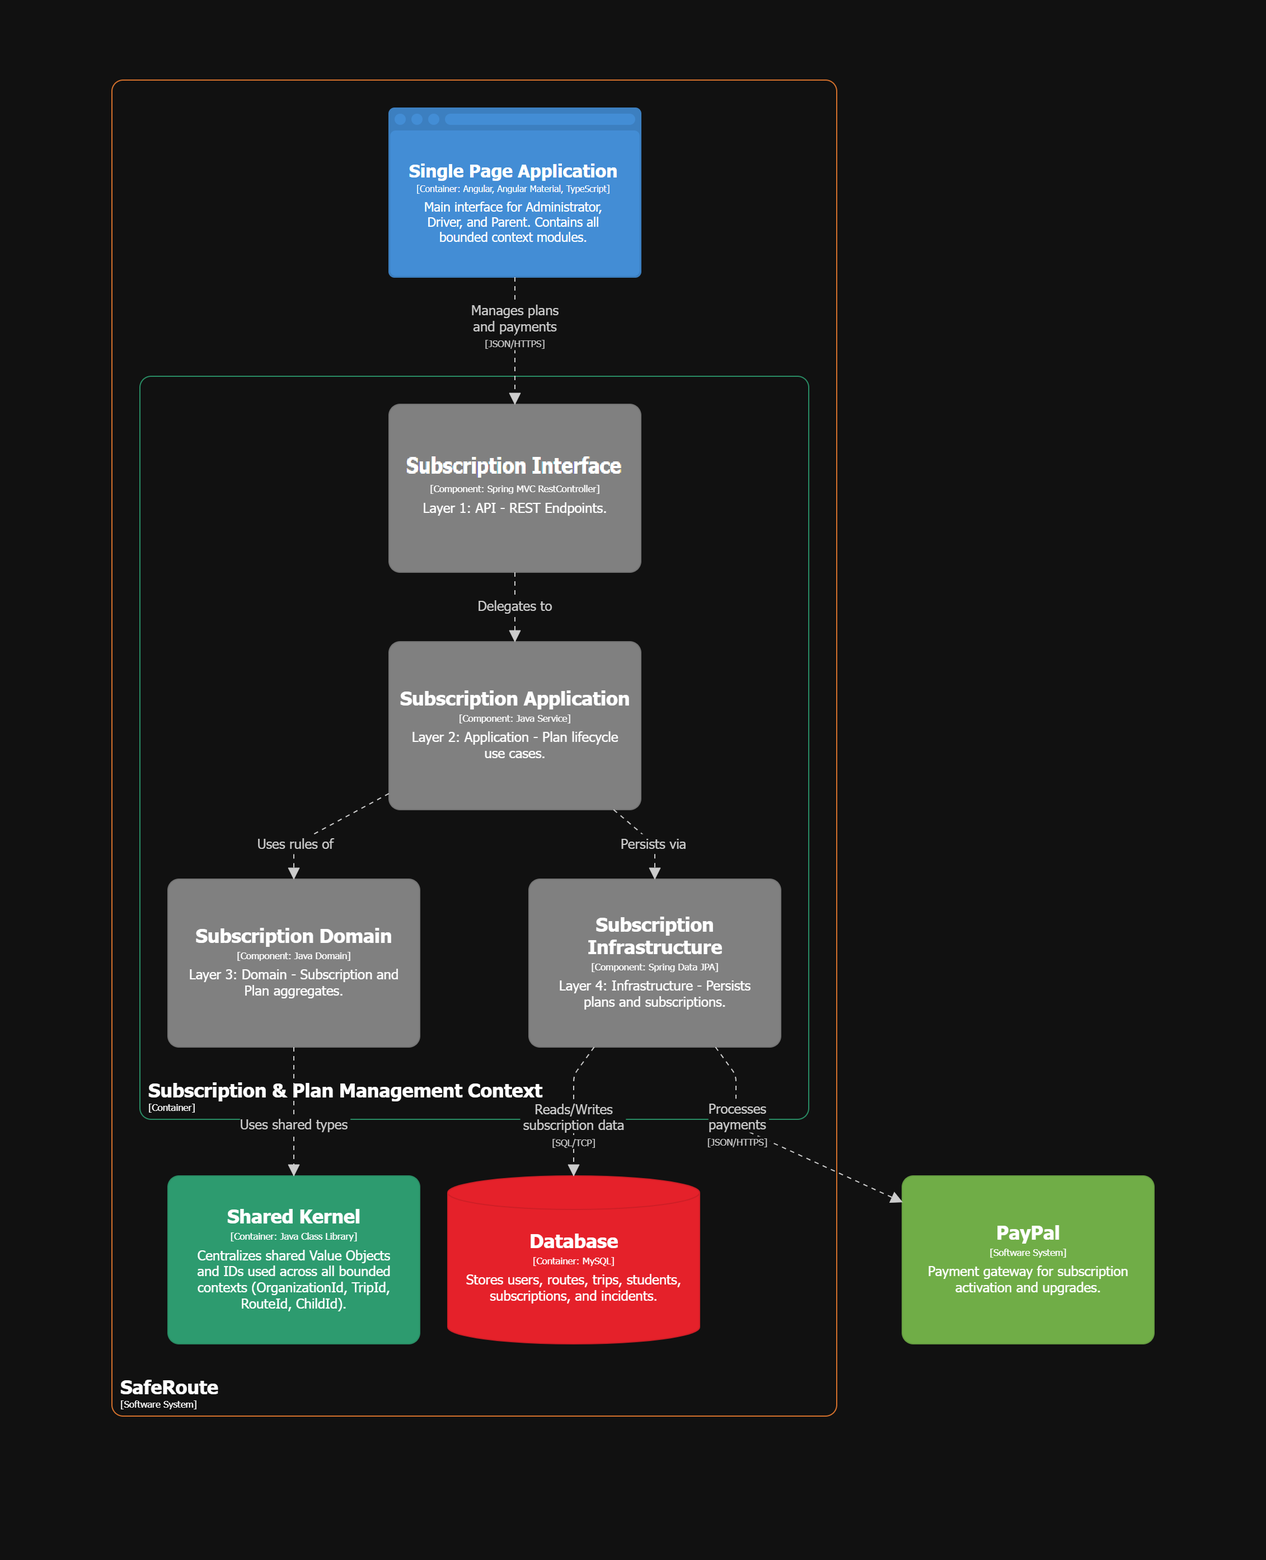
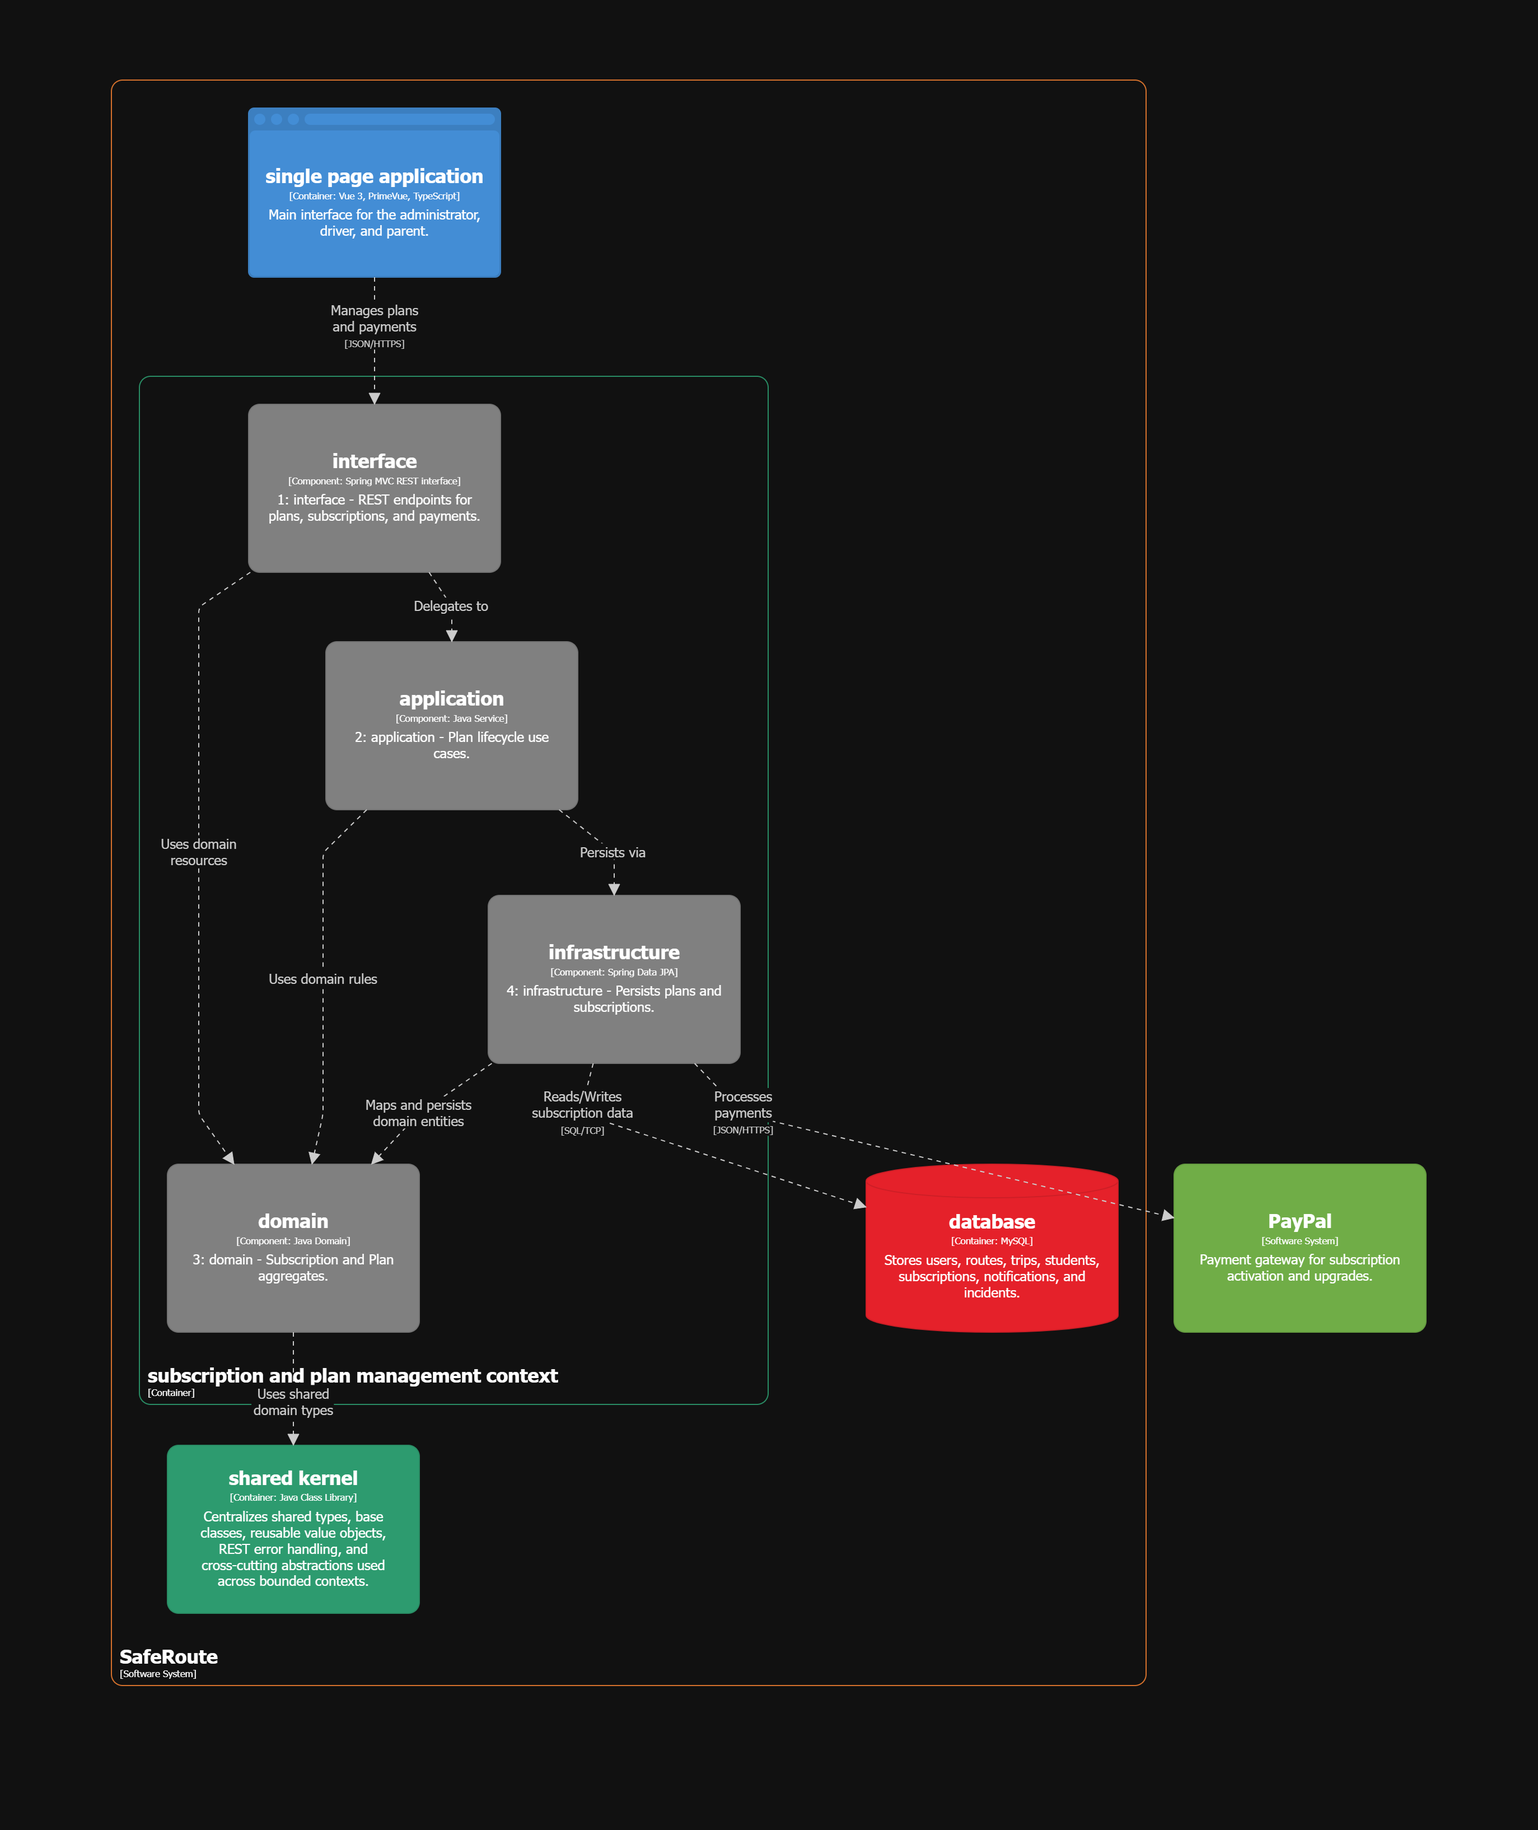
fix: update links and diagramas

Changed region(s): [[0.0619, 0.0312, 0.9284, 0.9368], [0.1238, 0.4372, 0.1547, 0.4684]]

diff --git a/README.md b/README.md
@@ -2755,7 +2755,7 @@ Aquí se detallan las unidades de despliegue principales del sistema. El diagram
 - Single Page
 
 ![WebServices](./assets/images/ChapterIV/C4/ComponentDiagram_SPA-dark.png)
-La SPA está desarrollada con Angular, Angular Material y TypeScript, organizada en módulos por bounded context. Cada módulo sigue una estructura interna de cuatro capas: Model (DTOs del dominio), Assembler (transforma respuestas del API), API Service (consume el backend vía HttpClient), y Store (estado reactivo con Angular Signals). La navegación entre módulos es gestionada por la Navigation Bar del módulo Shared, mientras que el HTTP Service centraliza todas las llamadas REST y el Map Service gestiona la integración con Leaflet.
+La SPA está desarrollada con Angular, Angular Material y TypeScript, organizada en módulos por bounded context. Cada módulo sigue una estructura interna de cuatro capas: Model (resources del dominio), Assembler (transforma respuestas del API), API Service (consume el backend vía HttpClient), y Store (estado reactivo con Angular Signals). La navegación entre módulos es gestionada por la Navigation Bar del módulo Shared, mientras que el HTTP Service centraliza todas las llamadas REST y el Map Service gestiona la integración con Leaflet.
 
 - Trip Execution & Monitoring:
   Ilustra el núcleo operativo del frontend en sus 4 capas. Muestra cómo la Trip View procesa la ejecución del viaje en tiempo real, el Signal Store mantiene el estado de abordajes e incidentes activos, y el Trip Service registra cada evento hacia el Web Service, que a su vez dispara las notificaciones correspondientes.
@@ -2789,7 +2789,7 @@ La SPA está desarrollada con Angular, Angular Material y TypeScript, organizada
   ![WebServices](<./assets/images/ChapterIV/C4/ComponentPresentation/ComponentDiagram_Notification-dark%20(1).png>)
 
 - Shared Kernel:
-  Detalla las 4 capas transversales del frontend que fundamentan todos los bounded context modules. Expone el Navigation Bar en la capa de presentación, el HTTP Service centralizado con interceptores JWT en la capa de aplicación, los DTOs e interfaces base en dominio, y el Map Service que integra Leaflet y OpenRouteService en la capa de infraestructura.
+  Detalla las 4 capas transversales del frontend que fundamentan todos los bounded context modules. Expone el Navigation Bar en la capa de presentación, el HTTP Service centralizado con interceptores JWT en la capa de aplicación, los resources e interfaces base en dominio, y el Map Service que integra Leaflet y OpenRouteService en la capa de infraestructura.
   ![WebServices](./assets/images/ChapterIV/C4/ComponentDiagram_Shared-dark.png)
 
   Presentation shared:
@@ -2817,9 +2817,11 @@ La SPA está desarrollada con Angular, Angular Material y TypeScript, organizada
   ![WebServices](./assets/images/ChapterIV/C4/WebServiceComponents-dark.png)
   Este diagrama ofrece la visión macro del backend. Demuestra cómo el monolito de Spring Boot está organizado lógicamente en seis Bounded Contexts independientes y un Shared Kernel (núcleo compartido de Value Objects), asegurando una separación clara de responsabilidades a nivel de dominio.
 
+
 - Trip Execution & Monitoring:
   Ilustra el núcleo operativo del sistema en sus 4 capas. Muestra cómo se procesa la lógica en tiempo real durante la ejecución del viaje, gestionando el registro de abordajes por estudiante, el log de incidentes y la emisión de eventos de dominio internos que activan el contexto de Notificaciones.
   ![WebServices](./assets/images/ChapterIV/C4/ComponentDiagram_Trip-dark.png)
+
 
 - Route Planning & Execution:
   Detalla la arquitectura modular (Controller, Service, Domain, Repository) encargada de la logística previa al viaje. Maneja la definición de paraderos con coordenadas GPS de alta precisión, la asignación de vehículos y conductores, y la configuración de horarios y días de servicio por ruta.
@@ -2834,8 +2836,9 @@ La SPA está desarrollada con Angular, Angular Material y TypeScript, organizada
   ![WebServices](./assets/images/ChapterIV/C4/ComponentDiagram_Notification-dark.png)
 
 - Shared Kernel:
-  Este diagrama expone las 4 capas transversales (Building Blocks) que fundamentan la arquitectura limpia del monolito. Detalla cómo se proveen clases base y utilidades compartidas: Middlewares en la capa API, interfaces y DTOs base en Application, Value Objects globales (TripId, StudentId) en Domain, y repositorios genéricos en Infrastructure, evitando la duplicidad de código en el resto de los Bounded Contexts.
-  ![WebServices](./assets/images/ChapterIV/C4/ComponentDiagram_SharedKernel-dark.png)
+  Este diagrama expone las 4 capas transversales (Building Blocks) que fundamentan la arquitectura limpia del monolito. Detalla cómo se proveen clases base y utilidades compartidas: Middlewares en la capa API, interfaces y resources base en Application, Value Objects globales (TripId, StudentId) en Domain, y repositorios genéricos en Infrastructure, evitando la duplicidad de código en el resto de los Bounded Contexts.
+  ![WebServices](./assets/images/ChapterIV/C4/ComponentDiagram_Shared-dark%20(1).png)
+  
   - Identity & Access Management:
     Desglosa el módulo de identidad en su arquitectura interna de 4 capas (API, Application, Domain, Infrastructure). Ilustra cómo se maneja la autenticación de usuarios, la provisión de cuentas y la asignación de roles de forma aislada, con Spring Security gestionando la emisión de tokens JWT en la capa de infraestructura.
     ![WebServices](./assets/images/ChapterIV/C4/ComponentDiagram_IAM-dark.png)
@@ -2845,67 +2848,6 @@ La SPA está desarrollada con Angular, Angular Material y TypeScript, organizada
   ![WebServices](./assets/images/ChapterIV/C4/ComponentDiagram_Subscription-dark.png)
 
 #### 4.7.1. Class Diagrams
-
-**BackEnd**
-
-- Identity and Access Management:
-
-![saferoute-iam](https://www.plantuml.com/plantuml/proxy?src=https://raw.githubusercontent.com/upc-pre-202610-1asi0729-11896-fivetech/saferoute-platform/refs/heads/main/saferoute-platform/docs/java-saferoute-iam-ddd.puml)
-
-Gestiona organizaciones, usuarios y roles en el entorno de la aplicación.
-Organization (AggregateRoot): Maneja el ciclo de vida de la institución (métodos create(), suspend(), activate()). Se relaciona mediante Value Objects para su identificador, nombre y estado.
-User (AggregateRoot): Gestiona la autenticación y la asignación de roles de los usuarios (métodos register(), authenticate(), changeRole()). Pertenece a una organización a través del OrganizationId compartido y utiliza Value Objects de seguridad como PasswordHash.
-Role (Entity): Define los niveles de acceso dentro del sistema usando el Value Object
-
-- Subscription & Plan Management:
-
-![saferoute-subscription](https://www.plantuml.com/plantuml/proxy?src=https://raw.githubusercontent.com/upc-pre-202610-1asi0729-11896-fivetech/saferoute-platform/refs/heads/main/saferoute-platform/docs/java-saferoute-subscription-ddd.puml)
-
-Controla el modelo de negocio, definiendo los planes y suscripciones de cada organización.
-Subscription (AggregateRoot): Controla el estado y la vigencia de una suscripción (métodos activate(), upgrade(), cancel()). Se vincula directamente a una organización y a un plan específico mediante sus identificadores.
-Plan (AggregateRoot): Establece los límites operativos y económicos mediante los Value Objects RouteQuota y DriverQuota, los cuales validan que no se exceda la capacidad contratada de rutas y conductores.
-
-- Stakeholder & Asset Management:
-
-![saferoute-stakeholder](https://www.plantuml.com/plantuml/proxy?src=https://raw.githubusercontent.com/upc-pre-202610-1asi0729-11896-fivetech/saferoute-platform/refs/heads/main/saferoute-platform/docs/java-saferoute-stakeholder-ddd.puml)
-
-Modela a los actores humanos y sus agrupaciones dentro del sistema.
-Parent (AggregateRoot): Representa a los apoderados e incluye una lista de entidades Child, gestionando la adición o remoción de hijos.
-Driver (Entity): Define a los conductores, agregando atributos específicos de su labor como el Value Object LicenseNumber.
-Child (Entity): Representa a los estudiantes, gestionando su estado de inscripción mediante el Value Object ChildEnrollmentState.
-StudentGroup (Entity): Permite agrupar referencias a múltiples niños (ChildId) para facilitar su asignación.
-
-- Fleet & Route Planning:
-
-![saferoute-fleet](https://www.plantuml.com/plantuml/proxy?src=https://raw.githubusercontent.com/upc-pre-202610-1asi0729-11896-fivetech/saferoute-platform/refs/heads/main/saferoute-platform/docs/java-saferoute-fleet-ddd.puml)
-
-Encargado de la planificación logística y operativa del transporte.
-Route (AggregateRoot): Define el recorrido y su programación utilizando Value Objects como DepartureTime y ServiceDays. Compone una secuencia de paradas (Stop) y se asocia a un vehículo y a una asignación específica.
-Stop, Vehicle y Assignment (Entities): Stop maneja las coordenadas exactas y el orden de recojo. Vehicle controla la capacidad y disponibilidad de la unidad. Assignment vincula operativamente a un conductor con un grupo específico de niños para esa ruta.
-
-- Trip Execution & Monitoring:
-
-![saferoute-trip](https://www.plantuml.com/plantuml/proxy?src=https://raw.githubusercontent.com/upc-pre-202610-1asi0729-11896-fivetech/saferoute-platform/refs/heads/main/saferoute-platform/docs/java-saferoute-trip-ddd.puml)
-
-Trip (AggregateRoot): Controla el ciclo de vida del recorrido (métodos start(), complete()) vinculando una ruta, un conductor y una organización.
-Attendance (Entity): Registra individualmente si un niño abordó o no, utilizando el Value Object BoardingState (boarded, missing, omitted).
-Incident (Entity): Permite reportar cualquier problema durante el viaje, encapsulando los detalles en el Value Object IncidentDescription.
-
-- Notifications & Communication:
-
-![saferoute-notifications](https://www.plantuml.com/plantuml/proxy?src=https://raw.githubusercontent.com/upc-pre-202610-1asi0729-11896-fivetech/saferoute-platform/refs/heads/main/saferoute-platform/docs/java-saferoute-notifications-ddd.puml)
-
-Centraliza el envío de información y alertas hacia los padres de familia.
-Notification (AggregateRoot): Organiza el envío de mensajes, gestionando la categoría y el estado de entrega (NotificationDeliveryState) hacia un apoderado en el contexto de un viaje específico.
-Alert y Announcement (Entities): Alert se enfoca en notificaciones inmediatas o de pánico basadas en el tiempo de disparo (triggeredAt). Announcement maneja comunicados generales asociados a una ruta específica.
-
-- Shared:
-
-![saferoute-shared](https://www.plantuml.com/plantuml/proxy?src=https://raw.githubusercontent.com/upc-pre-202610-1asi0729-11896-fivetech/saferoute-platform/refs/heads/main/saferoute-platform/docs/java-saferoute-shared-ddd.puml)
-
-Actúa como el Shared Kernel transversal de toda la solución en Spring Boot.
-
-Contiene exclusivamente Value Objects inmutables que sirven como identificadores globales (ej. OrganizationId, RouteId, ChildId) y conceptos comunes como FullName y Coordinates. Esto asegura la consistencia de los tipos de datos en la comunicación entre los distintos Bounded Contexts.
 
 **FrontEnd**
 
@@ -2976,6 +2918,96 @@ Centraliza la visualización y envío de notificaciones y alertas.
 Presentation & Domain: App compone NotificationList (para filtrar y marcar notificaciones como leídas), AlertPanel (gestiona alertas activas y pánico) y AnnouncementForm (creación de comunicados). Las vistas dependen exclusivamente de los modelos de dominio (Notification, Alert, Announcement) para renderizar los mensajes y alertas operativas a los usuarios finales.
 
 Application & Infrastructure: NotificationsStore maneja el estado de notificaciones, alertas y anuncios. NotificationsApi realiza las peticiones (ej. dispatchNotification(), triggerAlert()) y los Assemblers transforman los recursos recibidos en modelos limpios del dominio.
+
+**BackEnd**
+
+- Identity and Access Management (IAM):
+
+Gestiona organizaciones, usuarios y roles en el entorno de la aplicación.
+
+* Organization Aggregate
+Maneja el ciclo de vida de la institución (métodos create(), suspend(), activate()). Se relaciona mediante Value Objects para su identificador, nombre y estado.
+![saferoute-iam-organization](https://www.plantuml.com/plantuml/proxy?src=https://raw.githubusercontent.com/upc-pre-202610-1asi0729-11896-fivetech/saferoute-platform/refs/heads/develop/saferoute-platform/docs/java-saferoute-iam-organization-ddd.puml)
+
+* User Aggregate
+Gestiona la autenticación y la asignación de roles de los usuarios (métodos register(), authenticate(), changeRole()). Pertenece a una organización a través del OrganizationId compartido y utiliza Value Objects de seguridad como PasswordHash.
+![saferoute-iam-user](https://www.plantuml.com/plantuml/proxy?src=https://raw.githubusercontent.com/upc-pre-202610-1asi0729-11896-fivetech/saferoute-platform/refs/heads/develop/saferoute-platform/docs/java-saferoute-iam-user-ddd.puml)
+
+- Subscription & Plan Management:
+
+Controla el modelo de negocio, definiendo los planes y suscripciones de cada organización.
+
+* Plan Aggregate
+Establece los límites operativos y económicos mediante los Value Objects RouteQuota y DriverQuota, los cuales validan que no se exceda la capacidad contratada de rutas y conductores.
+![saferoute-subscription-plan](https://www.plantuml.com/plantuml/proxy?src=https://raw.githubusercontent.com/upc-pre-202610-1asi0729-11896-fivetech/saferoute-platform/refs/heads/develop/saferoute-platform/docs/java-saferoute-subscription-plan-ddd.puml)
+
+* Subscription Aggregate
+Controla el estado y la vigencia de una suscripción (métodos activate(), upgrade(), cancel()). Se vincula directamente a una organización y a un plan específico mediante sus identificadores.
+![saferoute-subscription-subscription](https://www.plantuml.com/plantuml/proxy?src=https://raw.githubusercontent.com/upc-pre-202610-1asi0729-11896-fivetech/saferoute-platform/refs/heads/develop/saferoute-platform/docs/java-saferoute-subscription-subscription-ddd.puml)
+
+* Payment Aggregate
+Gestiona los pagos realizados para las suscripciones.
+![saferoute-subscription-payment](https://www.plantuml.com/plantuml/proxy?src=https://raw.githubusercontent.com/upc-pre-202610-1asi0729-11896-fivetech/saferoute-platform/refs/heads/develop/saferoute-platform/docs/java-saferoute-subscription-payment-ddd.puml)
+
+- Stakeholder & Asset Management:
+
+Modela a los actores humanos y sus agrupaciones dentro del sistema.
+
+* Parent Aggregate
+Representa a los apoderados e incluye a los estudiantes a su cargo, gestionando la adición o remoción de hijos.
+![saferoute-stakeholder-parent](https://www.plantuml.com/plantuml/proxy?src=https://raw.githubusercontent.com/upc-pre-202610-1asi0729-11896-fivetech/saferoute-platform/refs/heads/develop/saferoute-platform/docs/java-saferoute-stakeholder-parent-ddd.puml)
+
+* Driver Aggregate
+Define a los conductores y atributos de su labor como la licencia.
+![saferoute-stakeholder-driver](https://www.plantuml.com/plantuml/proxy?src=https://raw.githubusercontent.com/upc-pre-202610-1asi0729-11896-fivetech/saferoute-platform/refs/heads/develop/saferoute-platform/docs/java-saferoute-stakeholder-driver-ddd.puml)
+
+* StudentGroup Aggregate
+Permite agrupar referencias a múltiples niños para facilitar su asignación.
+![saferoute-stakeholder-studentgroup](https://www.plantuml.com/plantuml/proxy?src=https://raw.githubusercontent.com/upc-pre-202610-1asi0729-11896-fivetech/saferoute-platform/refs/heads/develop/saferoute-platform/docs/java-saferoute-stakeholder-studentgroup-ddd.puml)
+
+- Fleet & Route Planning:
+
+Encargado de la planificación logística y operativa del transporte.
+
+* Route Aggregate
+Define el recorrido y su programación utilizando Value Objects como DepartureTime y ServiceDays. Compone una secuencia de paradas (Stop).
+![saferoute-fleet-route](https://www.plantuml.com/plantuml/proxy?src=https://raw.githubusercontent.com/upc-pre-202610-1asi0729-11896-fivetech/saferoute-platform/refs/heads/develop/saferoute-platform/docs/java-saferoute-fleet-route-ddd.puml)
+
+* Vehicle Aggregate
+Controla la capacidad y disponibilidad de la unidad.
+![saferoute-fleet-vehicle](https://www.plantuml.com/plantuml/proxy?src=https://raw.githubusercontent.com/upc-pre-202610-1asi0729-11896-fivetech/saferoute-platform/refs/heads/develop/saferoute-platform/docs/java-saferoute-fleet-vehicle-ddd.puml)
+
+* Assignment Aggregate
+Vincula operativamente a un conductor con un grupo específico de niños y una ruta para un viaje determinado.
+![saferoute-fleet-assignment](https://www.plantuml.com/plantuml/proxy?src=https://raw.githubusercontent.com/upc-pre-202610-1asi0729-11896-fivetech/saferoute-platform/refs/heads/develop/saferoute-platform/docs/java-saferoute-fleet-assignment-ddd.puml)
+
+- Trip Execution & Monitoring:
+
+Ejecución y seguimiento de viajes.
+
+* Trip Aggregate
+Controla el ciclo de vida del recorrido (métodos start(), complete()) vinculando una ruta, un conductor y una organización, y además las asistencias (Attendance) e incidentes (Incident).
+![saferoute-trip-trip](https://www.plantuml.com/plantuml/proxy?src=https://raw.githubusercontent.com/upc-pre-202610-1asi0729-11896-fivetech/saferoute-platform/refs/heads/develop/saferoute-platform/docs/java-saferoute-trip-trip-ddd.puml)
+
+* TripLocation Aggregate
+Rastrea y maneja la ubicación en tiempo real del vehículo durante el recorrido.
+![saferoute-trip-triplocation](https://www.plantuml.com/plantuml/proxy?src=https://raw.githubusercontent.com/upc-pre-202610-1asi0729-11896-fivetech/saferoute-platform/refs/heads/develop/saferoute-platform/docs/java-saferoute-trip-triplocation-ddd.puml)
+
+- Notifications & Communication:
+
+Centraliza el envío de información y alertas hacia los padres de familia.
+
+* Notification Aggregate
+Organiza el envío de mensajes, gestionando la categoría y el estado de entrega hacia un apoderado, incluyendo alertas y comunicados.
+![saferoute-notifications-notification](https://www.plantuml.com/plantuml/proxy?src=https://raw.githubusercontent.com/upc-pre-202610-1asi0729-11896-fivetech/saferoute-platform/refs/heads/develop/saferoute-platform/docs/java-saferoute-notifications-notification-ddd.puml)
+
+- Shared:
+
+Actúa como el Shared Kernel transversal de toda la solución en Spring Boot.
+
+* Shared Bounded Context
+Contiene exclusivamente Value Objects inmutables que sirven como identificadores globales y conceptos comunes (ej. OrganizationId, RouteId, ChildId, FullName, Coordinates). Esto asegura la consistencia de tipos en la comunicación entre los distintos contextos.
+![saferoute-shared](https://www.plantuml.com/plantuml/proxy?src=https://raw.githubusercontent.com/upc-pre-202610-1asi0729-11896-fivetech/saferoute-platform/refs/heads/develop/saferoute-platform/docs/java-saferoute-shared-ddd.puml)
 
 ### 4.8. Database Design
 
@@ -3281,7 +3313,7 @@ Este bounded context modela los actores operativos y recursos asociados al servi
 **Métodos (API REST)**
 | Método | Descripción |
 |----------------|------------------------------------------------------|
-| AddChildToAssignment() | Asocia un estudiante a una asignación de ruta. |
+| AddChilresourceAssignment() | Asocia un estudiante a una asignación de ruta. |
 | RemoveChildFromAssignment() | Desvincula un estudiante de una asignación. |
 
 ---
